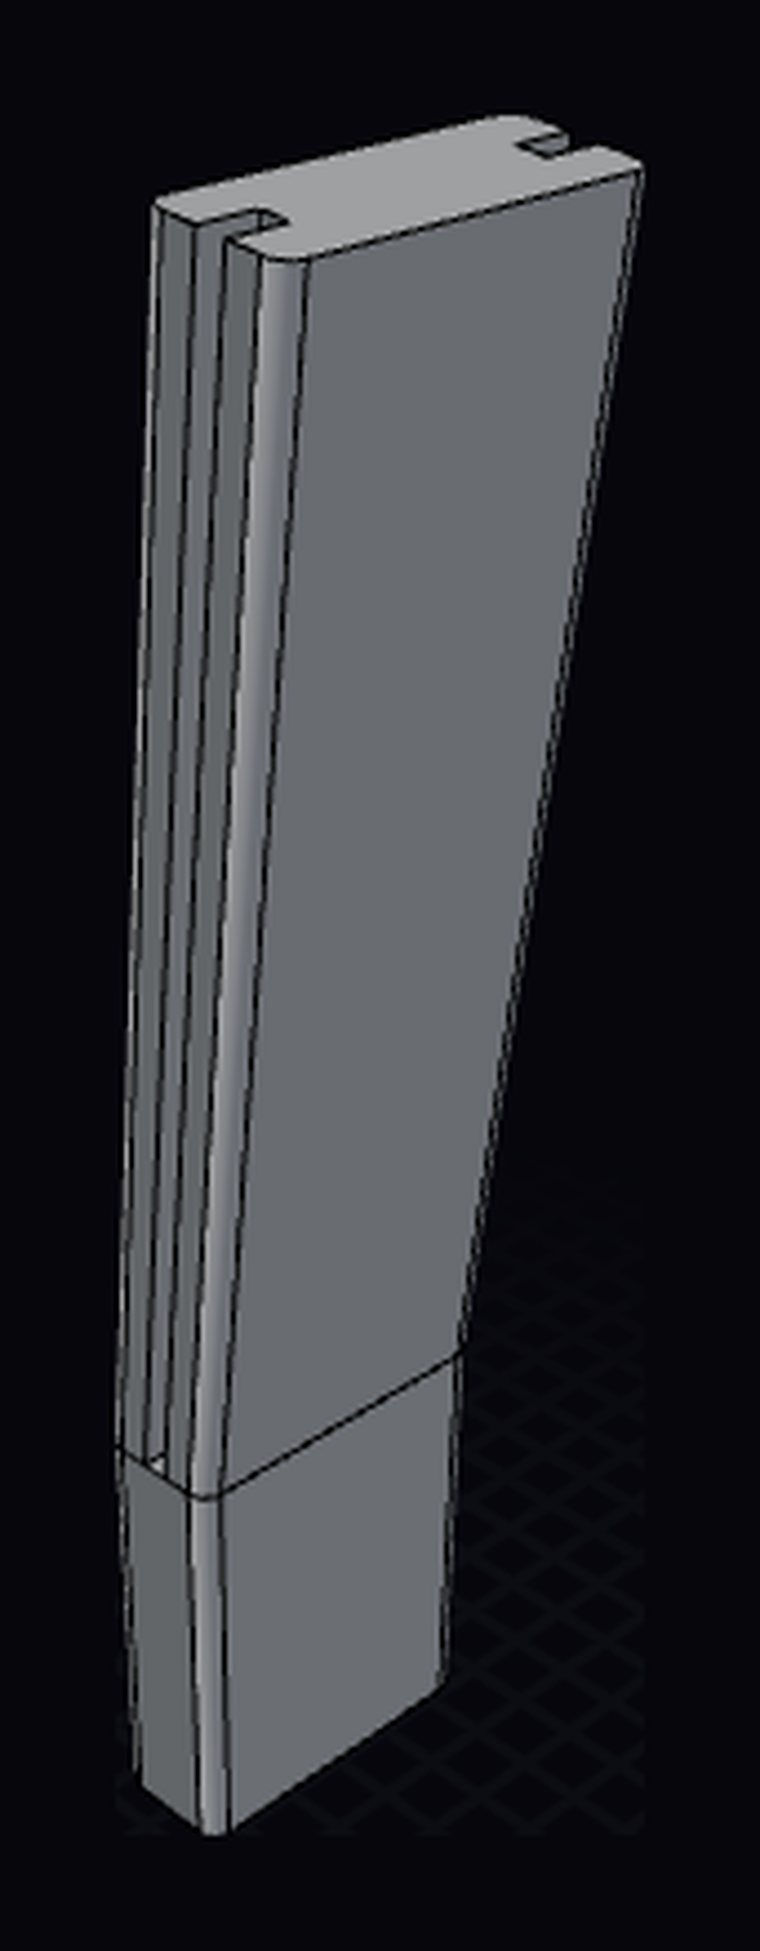
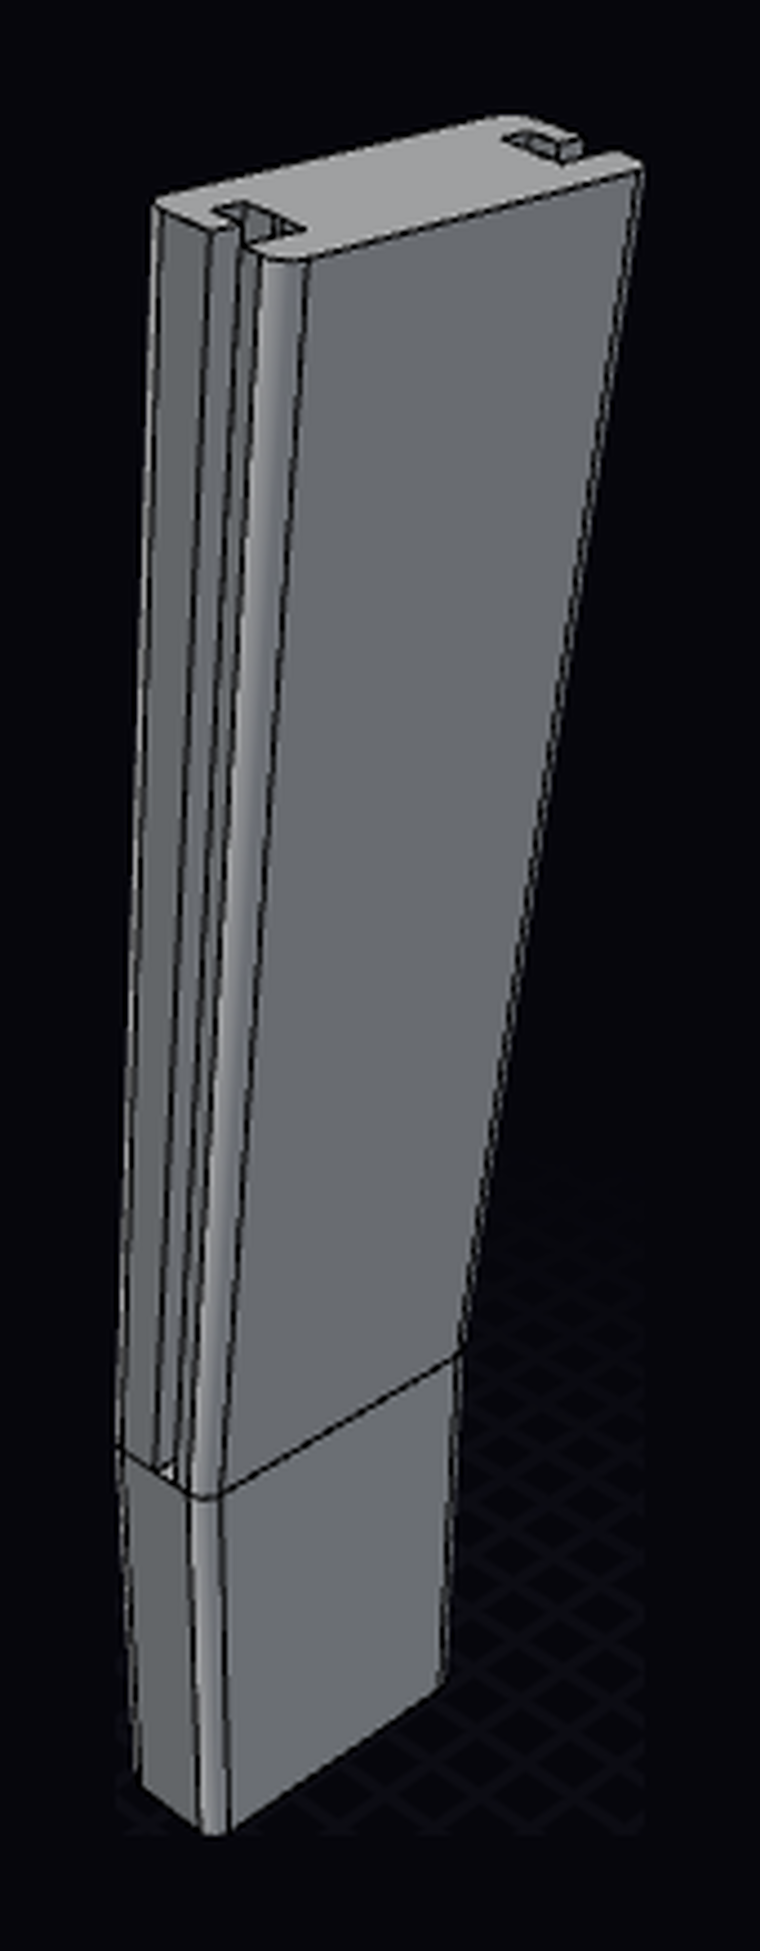
Add panel-retaining lips to posts, side and corner panels, centering each groove and recess

Changed region(s): [[0.1816, 0.0923, 0.3934, 0.7688], [0.6658, 0.0615, 0.8171, 0.0923]]

diff --git a/src/corner-panel.ts b/src/corner-panel.ts
@@ -11,22 +11,27 @@
  * the bucket itself. Both legs stay the same length top to bottom, so their
  * ends sit square in the grooves.
  *
+ * Like the side panel, each leg end carries a lip on its inside face that drops
+ * into the recess at the bottom of the post's groove and stops the leg pulling
+ * out along its length.
+ *
  * The corner is not square — the handle-end post sits nearer the corner than
  * the long-side post does — so the left and right corners are mirror images.
  * This module builds the left one; corner-panel-right mirrors it.
  *
  * Modelled as fitted and as printed, standing on its bottom edge. Z is up from
- * the rim (the groove floors) at z = 0. The origin is where the two legs' centre
- * planes cross at the bottom. Leg A runs along +X to the long-side post and
- * leans toward +Y; leg B runs along -Y to the handle-end post and leans toward
- * -X. The outside of the bend faces -X/+Y. Standing at the handle end facing
- * the tub, +X points away from you and +Y to your left.
+ * the rim (the groove floors) at z = 0. The origin is where the lines through
+ * the two posts' cutout centres cross; the posts' grooves sit a little outside
+ * those lines, so the legs' centre planes do too. Leg A runs along +X to the
+ * long-side post and leans toward +Y; leg B runs along -Y to the handle-end
+ * post and leans toward -X. The outside of the bend faces -X/+Y. Standing at
+ * the handle end facing the tub, +X points away from you and +Y to your left.
  */
 import { Sketcher, type Sketch, type ValidSolid } from 'brepjs';
 
 import { cart, corner, plug } from './cart.js';
-import { params as post } from './side-extension.brep.js';
-import { thickness } from './side-panel.brep.js';
+import { grooveOffset, params as post } from './side-extension.brep.js';
+import { lipLength, lipStandoff, thickness } from './side-panel.brep.js';
 import { single } from './solid.js';
 
 // ---------------------------------------------------------------------------
@@ -34,9 +39,10 @@ import { single } from './solid.js';
 // ---------------------------------------------------------------------------
 
 /**
- * The bend, on the panel's centreline at the bottom. Traced from the inside
- * edge of the rim in Gorilla's top-down product photo, then moved 17mm out to
- * the line through the cutouts, where the panel stands (see the README).
+ * The bend, on the lines through the cutouts at the bottom. Traced from the
+ * inside edge of the rim in Gorilla's top-down product photo, then moved 17mm
+ * out to those lines (see the README). The panel's centreline runs a further
+ * 2mm out, with the posts' grooves, and its rounds grow to match.
  */
 export const params = {
   /** Height up the panel, matching the posts and side panels. */
@@ -74,6 +80,15 @@ const lean = params.height * Math.sin(rad); // 15.68
  * a touch wider than half of `thickness`, which is measured square to the leg.
  */
 const halfWidth = thickness / Math.cos(rad) / 2;
+
+/**
+ * The posts' grooves sit outside their axes, so at the rim each leg's centre
+ * plane is this far out from its cutout line, measured horizontally.
+ */
+const grooveOut = grooveOffset / Math.cos(rad); // 2.01
+
+/** The side panel's lip, its stand-off likewise measured horizontally. */
+const lipWidth = lipStandoff / Math.cos(rad);
 
 /** Post centre to its groove floor, along the rim. */
 const toGrooveFloor = plug.y / 2 - post.grooveDepth; // 17.5
@@ -135,8 +150,8 @@ if (-endCentre[1] + halfWidth > corner.across - plug.y / 2) {
 export function cornerPanel(): ValidSolid {
   // Bottom and top sections share their topology edge for edge, so a ruled loft
   // joins straight to straight (planes) and arc to arc (cones).
-  const bottom = section(0, 0);
-  const top = section(rise, lean);
+  const bottom = section(0, grooveOut);
+  const top = section(rise, grooveOut + lean);
   return single(bottom.loftWith(top, { ruled: true }));
 }
 
@@ -168,12 +183,16 @@ function section(z: number, out: number): Sketch {
     .lineTo(o.flatEnd)
     .threePointsArcTo(o.b, o.endMid)
     .lineTo([-outer, -endB])
-    .lineTo([-inner, -endB])
+    .lineTo([-inner + lipWidth, -endB])
+    .lineTo([-inner + lipWidth, -endB + lipLength])
+    .lineTo([-inner, -endB + lipLength])
     .lineTo(i.b)
     .threePointsArcTo(i.flatEnd, i.endMid)
     .lineTo(i.flatSide)
     .threePointsArcTo(i.a, i.sideMid)
-    .lineTo([endA, inner])
+    .lineTo([endA - lipLength, inner])
+    .lineTo([endA - lipLength, inner - lipWidth])
+    .lineTo([endA, inner - lipWidth])
     .close();
 }
 
@@ -184,24 +203,24 @@ function section(z: number, out: number): Sketch {
 // Each horizontal section is a strip of constant width along the centreline:
 // three straight runs that keep their length, plus two rounds whose radii grow
 // linearly with height. Its volume is the width times the centreline length at
-// mid-height.
+// mid-height. The two lips add a constant rectangle each.
 const sideTurn = Math.acos(dot(nA, nF));
 const endTurn = Math.acos(dot(nF, nB));
 const centreline =
   runA +
   runB +
   runFlat +
-  sideTurn * (params.sideRadius + lean / 2) +
-  endTurn * (params.endRadius + lean / 2);
+  sideTurn * (params.sideRadius + grooveOut + lean / 2) +
+  endTurn * (params.endRadius + grooveOut + lean / 2);
 
-export const volume = 2 * halfWidth * centreline * rise;
+export const volume = (2 * halfWidth * centreline + 2 * lipLength * lipWidth) * rise;
 
 /** Bounds of the left part; the right part is the same mirrored in Y. */
 export const extent = {
-  xMin: -lean - halfWidth,
+  xMin: -grooveOut - lean - halfWidth,
   xMax: endA,
   yMin: -endB,
-  yMax: lean + halfWidth,
+  yMax: grooveOut + lean + halfWidth,
   zMin: 0,
   zMax: rise,
 };

diff --git a/src/side-extension.brep.ts b/src/side-extension.brep.ts
@@ -7,6 +7,10 @@
  * flare. A groove down each face that points along the rim takes the edge of a
  * side panel, which drops in from the top and spans to the next post.
  *
+ * Each groove is L-shaped: at its bottom, a recess opens sideways into the wall
+ * on the inside of the cart. The panel's end carries a matching lip, so once it
+ * has slid down into place it can't pull out of the groove along its length.
+ *
  * Units and axes as in ./key.ts: Z up from the cutout floor at z = 0, centred
  * in X/Y, X across the rim, Y along it. The post leans toward +X, so fit it
  * with +X facing out of the cart.
@@ -31,10 +35,29 @@ export const params = {
   /** Outward lean of the post from vertical, in degrees. */
   lean: 6,
 
-  /** Panel groove across the face (X) and into it (Y). Centred on the face. */
+  /** Panel groove across the face (X) and into it (Y). */
   grooveWidth: 4,
   grooveDepth: 8,
 } as const;
+
+/**
+ * The lip recess at the bottom of each groove, square in section: this far
+ * along the groove from its floor, and this far sideways into the inside wall.
+ * Half the groove depth, so the 4mm in front of it is left as the shoulder
+ * that catches the panel's lip.
+ */
+export const lipSize = params.grooveDepth / 2;
+
+/**
+ * How far the groove's centre sits toward +X (the outside) of the post's axis.
+ * Groove and recess together span 8mm across the post; offsetting the groove
+ * by half the recess centres that span, leaving equal walls of
+ * (19.2 - 4 - 4) / 2 = 5.6mm outside the groove and inside the recess.
+ */
+export const grooveOffset = lipSize / 2; // 2
+
+/** Thinnest wall either side of the groove and recess. */
+export const sideWall = (plug.x - params.grooveWidth - lipSize) / 2; // 5.6
 
 // ---------------------------------------------------------------------------
 // Derived
@@ -69,18 +92,30 @@ export default function sideExtension(): ValidSolid {
   // A groove down each ±Y face, open at the top. It runs past the bottom of the
   // post too; once trimmed and joined, the insert's top face closes it off as a
   // floor at rim height.
+  const zMid = params.insertDepth - BELOW + length / 2;
   const groove = (side: 1 | -1) =>
     box(params.grooveWidth, params.grooveDepth + OVER, length + 2 * OVER, {
       centered: true,
+      at: [grooveOffset, side * (plug.y / 2 - params.grooveDepth / 2 + OVER / 2), zMid],
+    });
+
+  // The lip recess at the groove floor, opening sideways into the inside wall
+  // (-X). It overlaps the groove by OVER so the two cuts join cleanly.
+  const floorY = plug.y / 2 - params.grooveDepth; // 17.5
+  const recess = (side: 1 | -1) =>
+    box(lipSize + OVER, lipSize, length + 2 * OVER, {
+      centered: true,
       at: [
-        0,
-        side * (plug.y / 2 - params.grooveDepth / 2 + OVER / 2),
-        params.insertDepth - BELOW + length / 2,
+        grooveOffset - (params.grooveWidth / 2 + (lipSize - OVER) / 2),
+        side * (floorY + lipSize / 2),
+        zMid,
       ],
     });
-  const grooved = single(
-    unwrap(cut(single(unwrap(cut(upright, groove(1)))), groove(-1))),
-  );
+
+  let grooved = upright;
+  for (const tool of [groove(1), groove(-1), recess(1), recess(-1)]) {
+    grooved = single(unwrap(cut(grooved, tool)));
+  }
 
   // Positive rotation about +Y swings the top toward +X.
   const leaning = rotate(grooved, params.lean, { at: pivot, axis: [0, 1, 0] });
@@ -100,16 +135,25 @@ export default function sideExtension(): ValidSolid {
 // Declared intent — asserted by `brep verify --check`
 // ---------------------------------------------------------------------------
 
-// The post's section (bar less both grooves) is symmetric about its axis in X,
-// so the wedge the rim trim adds on one side equals the one it removes on the
-// other. Its volume is therefore the section times `extension`, as if cut
-// square to the axis.
-const postSectionArea = keySectionArea - 2 * params.grooveWidth * params.grooveDepth;
+// Cut square to its axis, the post would be its section times `extension`.
+// The rim trim is tilted instead: it keeps local heights z ≥ x·tan(lean)
+// measured from the pivot, so it takes off tan(lean) times the section's first
+// moment about the axis. The bar is symmetric in X and contributes nothing; the
+// section's moment is the opposite of what the grooves (centred at
+// x = grooveOffset) and lip recesses (centred at grooveOffset - 4) take out.
+const grooveArea = params.grooveWidth * params.grooveDepth;
+const recessArea = lipSize * lipSize;
+const recessX = grooveOffset - (params.grooveWidth + lipSize) / 2;
+const postSectionArea = keySectionArea - 2 * grooveArea - 2 * recessArea;
+const postSectionMoment = -(2 * grooveArea * grooveOffset + 2 * recessArea * recessX);
 
 const half = plug.x / 2;
 
 export const expected = {
-  volume: keySectionArea * params.insertDepth + postSectionArea * params.extension,
+  volume:
+    keySectionArea * params.insertDepth +
+    postSectionArea * params.extension -
+    Math.tan(rad) * postSectionMoment,
   bounds: {
     // Inner face where the trim meets it, just outside the insert.
     xMin: -half / Math.cos(rad),

diff --git a/src/side-panel.brep.ts b/src/side-panel.brep.ts
@@ -5,14 +5,20 @@
  * extension posts on the same side of the cart, filling the wall between them.
  * Five are needed: two on each long side and one across the handle end.
  *
+ * Each end carries a lip down its full height, standing off the face that goes
+ * on the inside of the cart. It drops into the recess at the bottom of the
+ * post's groove, so the panel can't pull out of the groove along its length.
+ * The lips are on one face only, so the other face is flat to print on.
+ *
  * Modelled flat, as printed: X along the panel's length (post to post), Y up
- * its height once fitted, Z through its thickness. Centred on the origin in X/Y,
- * lying on the print bed at z = 0.
+ * its height once fitted, Z through its thickness, lips up. Centred on the
+ * origin in X/Y, its outside face on the print bed at z = 0.
  */
-import { box, type ValidSolid } from 'brepjs';
+import { box, fuse, unwrap, type ValidSolid } from 'brepjs';
 
 import { cart, cutoutPitch, plug } from './cart.js';
-import { params as post } from './side-extension.brep.js';
+import { lipSize, params as post } from './side-extension.brep.js';
+import { single } from './solid.js';
 
 // ---------------------------------------------------------------------------
 // Parameters
@@ -37,15 +43,31 @@ export const thickness = post.grooveWidth - cart.fitTolerance;
 export const length =
   cutoutPitch - 2 * (plug.y / 2 - post.grooveDepth) - cart.fitTolerance;
 
+/**
+ * The lip at each end. It stands off the panel's face by the recess's full
+ * depth: the panel already sits 0.15 off each groove wall, which leaves the
+ * lip 0.15 clear of the recess's far wall. Along the panel it is the recess
+ * less the fit tolerance: 0.15 clear of the groove floor (as the panel end
+ * is) and 0.15 short of the shoulder.
+ */
+export const lipStandoff = lipSize; // 4
+export const lipLength = lipSize - cart.fitTolerance; // 3.7
+
 // ---------------------------------------------------------------------------
 // Model
 // ---------------------------------------------------------------------------
 
 export default function sidePanel(): ValidSolid {
-  return box(length, params.height, thickness, {
+  const plate = box(length, params.height, thickness, {
     centered: true,
     at: [0, 0, thickness / 2],
   });
+  const lip = (side: 1 | -1) =>
+    box(lipLength, params.height, lipStandoff, {
+      centered: true,
+      at: [side * (length - lipLength) / 2, 0, thickness + lipStandoff / 2],
+    });
+  return single(unwrap(fuse(single(unwrap(fuse(plate, lip(1)))), lip(-1))));
 }
 
 // ---------------------------------------------------------------------------
@@ -53,14 +75,14 @@ export default function sidePanel(): ValidSolid {
 // ---------------------------------------------------------------------------
 
 export const expected = {
-  volume: length * params.height * thickness,
+  volume: (length * thickness + 2 * lipLength * lipStandoff) * params.height,
   bounds: {
     xMin: -length / 2,
     xMax: length / 2,
     yMin: -params.height / 2,
     yMax: params.height / 2,
     zMin: 0,
-    zMax: thickness,
+    zMax: thickness + lipStandoff,
   },
   tolerancePct: 0.1,
 };

diff --git a/README.md b/README.md
@@ -138,11 +138,12 @@ Eight identical posts, one per cutout, that raise the bucket walls to carry more
 | Insert | 19.2 × 51.0 mm key, bottom 63.5 mm straight down into the cutout |
 | Post | Same section, 150 mm above the rim measured along its axis |
 | Lean | 6° outward (toward +X), pivoting about the rim line; trimmed flat where it meets the insert |
-| Grooves | 4 mm wide × 8 mm deep, centred on both ±Y faces, open at the top, floor at rim height |
-| Material left | 7.6 mm either side of each groove, 35 mm core between the groove floors |
+| Grooves | 4 mm wide × 8 mm deep on both ±Y faces, open at the top, floor at rim height. Centred 2 mm toward the outside (+X) of the post's axis, so the groove and its lip recess together sit centred in the post |
+| Lip recesses | 4 × 4 mm at the bottom of each groove, opening sideways into the inside wall (−X), full height and open at the top. The groove is L-shaped in section |
+| Material left | 5.6 mm on both sides at the thinnest: outside the groove and inside the lip recess. 9.6 mm beside the groove on the inside, in front of the recess, as the shoulder that catches the lip. 35 mm core between the groove floors |
 | Overall | 34.88 (X) × 51.0 (Y) × 213.7 (Z) mm; top 150.2 mm above the rim |
 
-Fit each post with its lean pointing out of the cart. All posts on a side lean the same way, so the panel between two of them lies flat in a plane leaning 6° out.
+Fit each post with its lean pointing out of the cart. All posts on a side lean the same way, so the panel between two of them lies flat in a plane leaning 6° out. The lip recesses are on the inside wall, so they end up on the cart side once the lean points out.
 
 Two side panels fill each long side, one fills the handle end, and a corner panel closes each handle-end corner. The end away from the handle stays open.
 
@@ -156,12 +157,13 @@ Flat plates that slide down into the grooves of two neighbouring posts on the sa
 
 | | |
 |---|---|
-| Size | 295.4 (length) × 150 (height) × 3.7 (thickness) mm |
+| Size | 295.4 (length) × 150 (height) × 3.7 (thickness) mm, 7.7 mm at the lips |
 | Thickness | 4 mm groove less the 0.3 mm fit tolerance |
 | Length | 295.7 mm groove floor to groove floor (330.7 pitch − 2 × 17.5), less 0.3 mm, so 0.15 mm clear at each end |
 | Height | Matches the posts, 150 mm above the rim |
+| Lips | One at each end on the inside face, full height: 3.7 mm along the panel and standing 4 mm off it. Each drops into its post's lip recess with 0.15 mm clearance all round, so the panel can't pull out of the groove along its length |
 
-Print flat. At 295.4 mm long the panel needs a print bed at least 296 mm in one direction, so it won't fit a 256 mm bed.
+Print flat on the plain outside face, lips up. At 295.4 mm long the panel needs a print bed at least 296 mm in one direction, so it won't fit a 256 mm bed.
 
 **Material:** print the panel across the handle end, the one closest to the handle, in PETG or another impact-resistant plastic. The other side panels should be fine in PLA.
 
@@ -175,14 +177,15 @@ Closes each handle-end corner, from the long-side post nearest the handle to the
 |---|---|
 | Long-side leg | 122.75 mm from the corner to its end (140.4 − 17.5 − 0.15) |
 | Handle-end leg | 145.0 mm from the corner to its end (162.65 − 17.5 − 0.15) |
-| Flat | Meets the long-side line 43 mm from the corner and the handle-end line 90 mm from it, about 64.5° to the long side |
-| Rounds | 63 mm radius into the long side and 51 mm into the handle end, on the centreline at the bottom; each grows by 15.7 mm at the top |
+| Flat | Meets the long-side cutout line 43 mm from the corner and the handle-end line 90 mm from it, about 64.5° to the long side |
+| Rounds | 63 mm radius into the long side and 51 mm into the handle end on the cutout lines; 65 and 53 mm on the panel's centreline at the bottom, each growing by 15.7 mm at the top |
 | Lean | Legs and flat all lean 6° outward, so the rounds are slices of cones |
 | Section | 3.7 mm thick, 150 mm up the slope |
 | Ends | Square to their legs and the same length top to bottom; 0.15 mm clear of each groove floor |
-| Overall | 140.3 × 162.5 × 149.2 mm, printed standing on its bottom edge |
+| Lips | The side panel's 3.7 × 4 mm lip on the inside face at each leg end |
+| Overall | 142.3 × 164.6 × 149.2 mm, printed standing on its bottom edge |
 
-The corner's path is the inside edge of the rim moved 17 mm outward, onto the line through the cutouts. So the panel's bottom edge sits on the rim all the way round the corner.
+The corner's path is the inside edge of the rim moved 17 mm outward, onto the line through the cutouts. The panel stands 2 mm further out again, in line with the posts' grooves, so its bottom edge sits on the rim all the way round the corner.
 
 The corner panel prints as modelled, standing up. The 6° lean is the only overhang. Use a brim, since it's a tall thin wall.
 

diff --git a/TODO.md b/TODO.md
@@ -1,4 +1,3 @@
 # TODO
 
-- [ ] **Side extension posts and panels:** add a lip so each panel is retained in its post's groove.
 - [ ] **Corner panels:** finalise the dimensions. Maybe fixed now?
